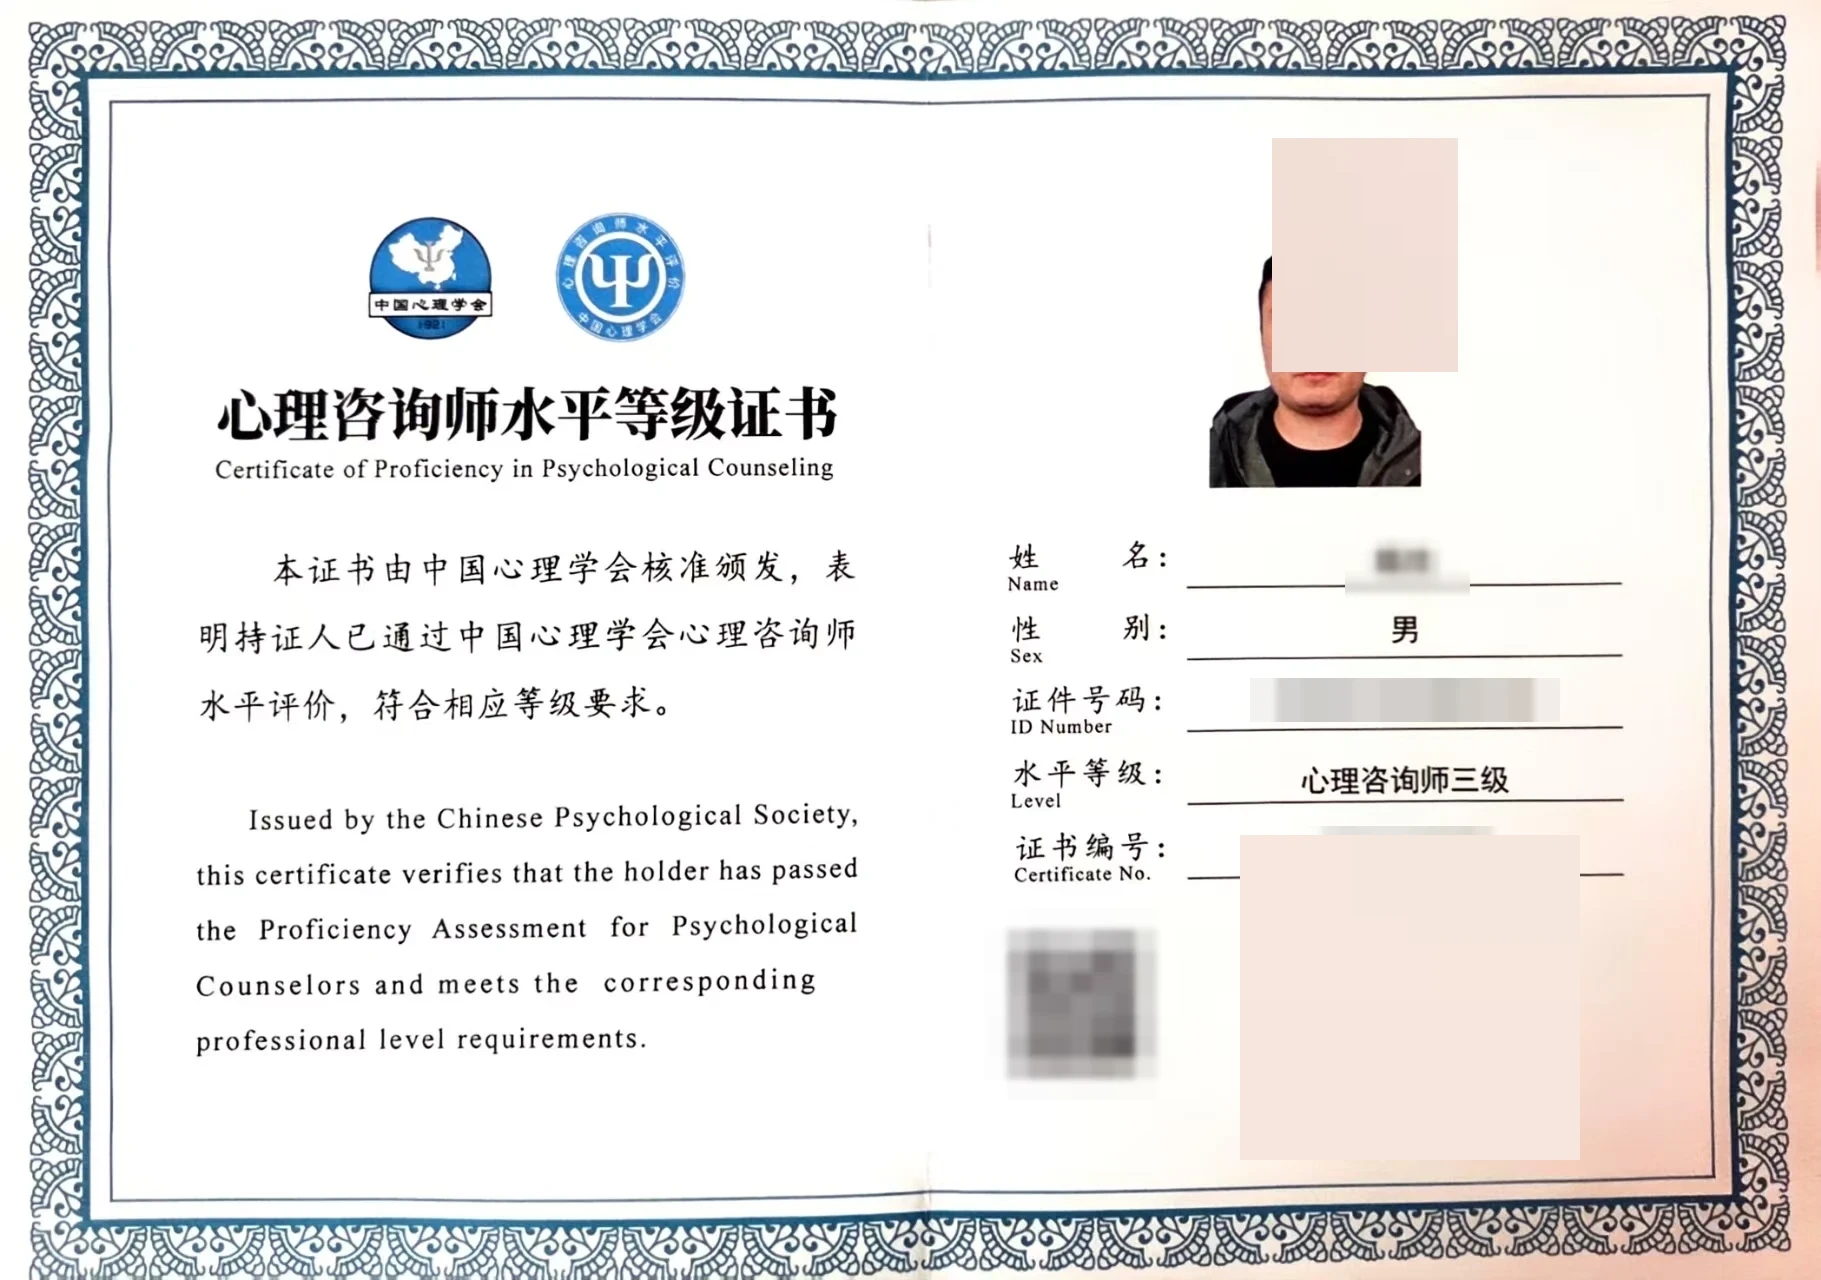
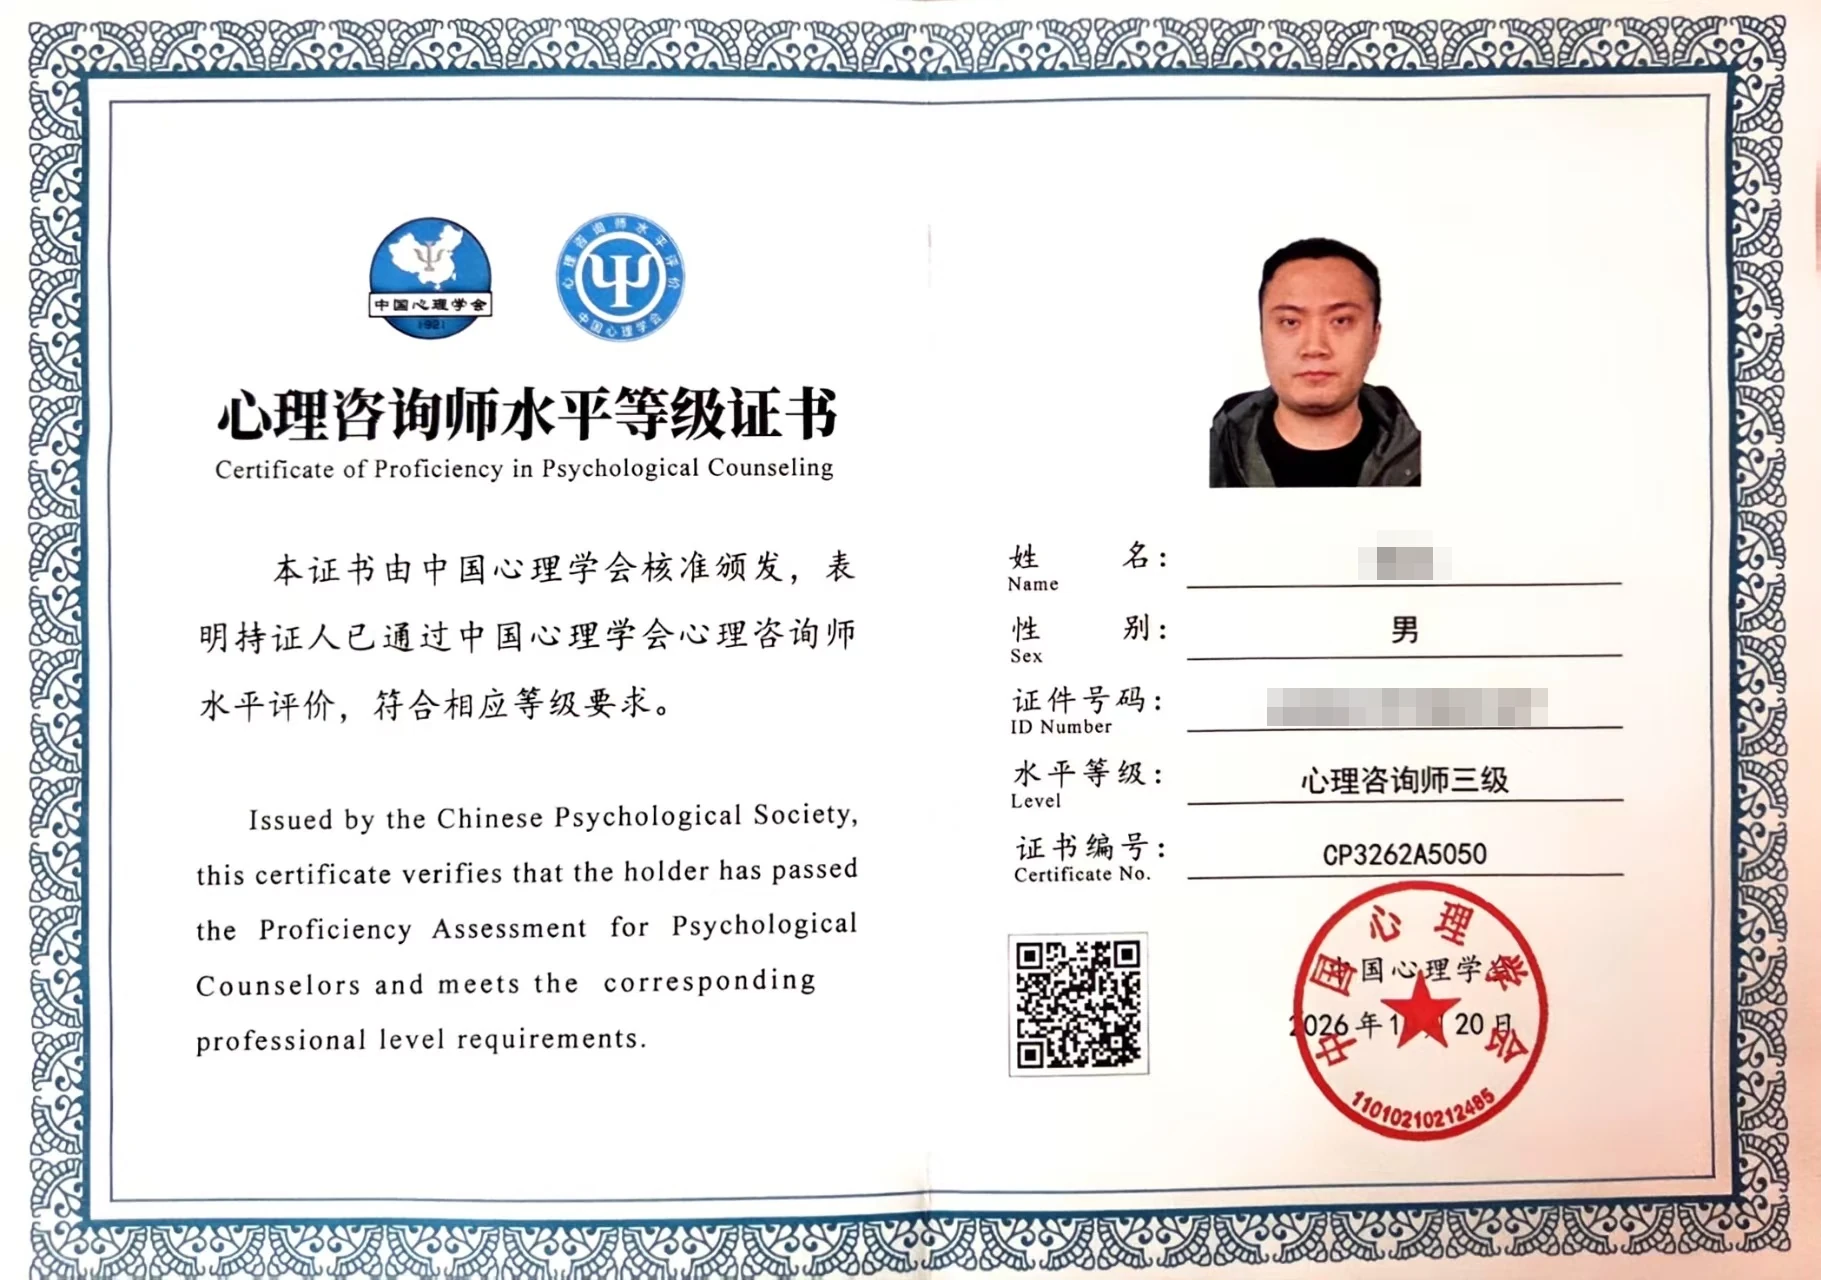
更新证书展示：仅遮挡姓名与证件号码，文案改为专业资质介绍并加核验提示

diff --git a/consultant.html b/consultant.html
@@ -381,6 +381,13 @@
       margin-right: 0.6rem;
       vertical-align: middle;
     }
+    .certificate-note .certificate-tip {
+      margin-top: 1.4rem;
+      font-size: 0.72rem;
+      color: var(--text-dim);
+      opacity: 0.75;
+      letter-spacing: 0.02em;
+    }
 
     /* ── Tools / Scales ── */
     .tools {
@@ -688,18 +695,19 @@
     </div>
     <div class="certificate">
       <figure class="certificate-media">
-        <img src="assets/img/certificate.webp" alt="心理咨询师水平等级证书图片（敏感信息已遮挡）">
-        <figcaption>用户提供的心理咨询师水平等级证书图片，姓名、证件号码、证书编号与二维码已做不可逆遮挡处理。</figcaption>
+        <img src="assets/img/certificate.webp" alt="心理咨询师水平等级证书图片（姓名与证件号码已遮挡）">
+        <figcaption>心理咨询师水平等级证书（姓名与证件号码已做不可逆遮挡处理，其余信息保持原样）。</figcaption>
       </figure>
       <div class="certificate-note">
-        <h4>资质材料</h4>
-        <p>这里展示的是本人提供的心理咨询师水平等级证书图片，用于说明我的专业背景。该图片仅作材料展示，不作为资质真伪或当前有效性的证明。</p>
-        <p>相关资质的真实性与有效性，请以颁发机构的官方核验结果为准；我也愿意在正式咨询关系开始前提供原始材料供核验。</p>
+        <h4>专业资质</h4>
+        <p>这里展示的是我的心理咨询师水平等级证书，用于介绍个人的专业背景与执业方向。证书上的姓名与证件号码已做遮挡处理，其余内容保持原样呈现。</p>
+        <p>相关资质的具体信息与有效性，以颁发机构的官方核验结果为准；我也愿意在正式咨询关系开始前提供原始材料供核验。</p>
         <div class="certificate-meta">
-          <span>图片中的个人信息已遮挡，不公开具体身份信息</span>
-          <span>二维码已处理，无法扫描查询</span>
-          <span>如需核验，请在咨询前提出</span>
+          <span>心理咨询师水平等级证书 · 三级</span>
+          <span>中国心理学会颁发</span>
+          <span>正式咨询前可提供原始材料核验</span>
         </div>
+        <p class="certificate-tip">如需核验，请联系客服获取详细信息。</p>
       </div>
     </div>
   </section>
